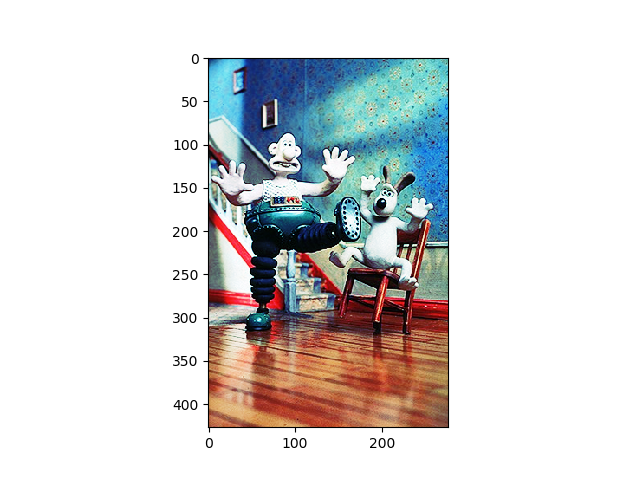
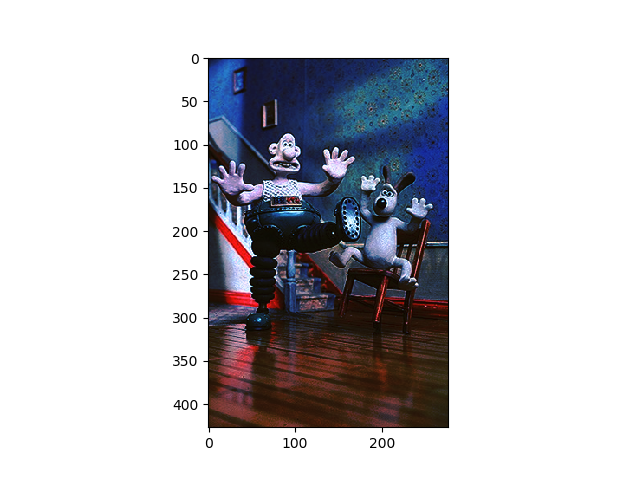
first version of histogram matching done

Changed region(s): [[0.3125, 0.125, 0.7188, 0.9062]]

diff --git a/hw1.py b/hw1.py
@@ -117,14 +117,113 @@ class UserInterface(QMainWindow):
             self.vbox2.addWidget(l2)
 
     def equalizeHistogram(self):
-        if self.inputImg:
+        if self.inputImg and self.targetImg:
             img = mpimg.imread(self.inputImg)
+            img2 = mpimg.imread(self.targetImg)
 
             r = img[:,:,0];
             g = img[:,:,1];
             b = img[:,:,2];
 
-            row,col=r.shape #height,witdh
+            r2 = img2[:,:,0];
+            g2 = img2[:,:,1];
+            b2 = img2[:,:,2];
+
+            oldshape = r.shape
+
+            s_values, bin_idx, s_counts = np.unique(r, return_inverse=True,return_counts=True)
+            t_values, t_counts = np.unique(r2, return_counts=True)
+
+            s_quantiles = np.cumsum(s_counts).astype(np.float64)
+            s_quantiles /= s_quantiles[-1]
+            t_quantiles = np.cumsum(t_counts).astype(np.float64)
+            t_quantiles /= t_quantiles[-1]
+
+            interp_t_values = np.interp(s_quantiles, t_quantiles, t_values)
+
+            matched_r = interp_t_values[bin_idx].reshape(oldshape)
+
+            oldshape = g.shape
+
+            s_values, bin_idx, s_counts = np.unique(g, return_inverse=True,return_counts=True)
+            t_values, t_counts = np.unique(g2, return_counts=True)
+
+            s_quantiles = np.cumsum(s_counts).astype(np.float64)
+            s_quantiles /= s_quantiles[-1]
+            t_quantiles = np.cumsum(t_counts).astype(np.float64)
+            t_quantiles /= t_quantiles[-1]
+
+            interp_t_values = np.interp(s_quantiles, t_quantiles, t_values)
+
+            matched_g = interp_t_values[bin_idx].reshape(oldshape)
+
+            oldshape = b.shape
+
+            s_values, bin_idx, s_counts = np.unique(b, return_inverse=True,return_counts=True)
+            t_values, t_counts = np.unique(b2, return_counts=True)
+
+            s_quantiles = np.cumsum(s_counts).astype(np.float64)
+            s_quantiles /= s_quantiles[-1]
+            t_quantiles = np.cumsum(t_counts).astype(np.float64)
+            t_quantiles /= t_quantiles[-1]
+
+            interp_t_values = np.interp(s_quantiles, t_quantiles, t_values)
+
+            matched_b = interp_t_values[bin_idx].reshape(oldshape)
+
+            newImage = np.zeros((r.shape[0],r.shape[1],3), np.float64)
+            newImage[..., 0] = matched_r * 1
+            newImage[..., 1] = matched_g * 1
+            newImage[..., 2] = matched_b * 1
+
+            plt.clf()
+            plt.imshow(newImage)
+            plt.savefig("resultPic.png")
+
+            l2 = QLabel()
+            l2.setPixmap(QPixmap("resultPic.png"))
+            self.vbox3.addWidget(l2)
+
+            plt.clf()
+
+            r = newImage[:,:,0];
+            g = newImage[:,:,1];
+            b = newImage[:,:,2];
+
+            hist = np.zeros((256), np.float64)
+            for i in range(0,r.shape[0]):
+                for j in range(0,r.shape[1]):
+                    hist[int(round(r[i,j]*255,0))] += 1
+
+            x = np.arange(0,256)
+            plt.subplot(3,1,1)
+            plt.bar(x,hist,color="red",align="center")
+
+            hist = np.zeros((256), np.float64)
+            for i in range(0,g.shape[0]):
+                for j in range(0,g.shape[1]):
+                    hist[int(round(g[i,j]*255,0))] += 1
+
+            x = np.arange(0,256)
+            plt.subplot(3,1,2)
+            plt.bar(x,hist,color="green",align="center")
+
+            hist = np.zeros((256), np.float64)
+            for i in range(0,b.shape[0]):
+                for j in range(0,b.shape[1]):
+                    hist[int(round(b[i,j]*255,0))] += 1
+
+            x = np.arange(0,256)
+            plt.subplot(3,1,3)
+            plt.bar(x,hist,color="blue",align="center")
+
+            plt.savefig("histResult.png")
+
+            l2 = QLabel()
+            l2.setPixmap(QPixmap("histResult.png"))
+            self.vbox3.addWidget(l2)
+
+            '''row,col=r.shape #height,witdh
             hist = np.zeros((256), np.uint64)
             for i in range(0,row):
                 for j in range(0,col):
@@ -211,7 +310,9 @@ class UserInterface(QMainWindow):
 
             l2 = QLabel()
             l2.setPixmap(QPixmap("resultPic.png"))
-            self.vbox3.addWidget(l2)
+            self.vbox3.addWidget(l2)'''
+
+
 
 
     def histogramOfImage(self, fileName, type):
